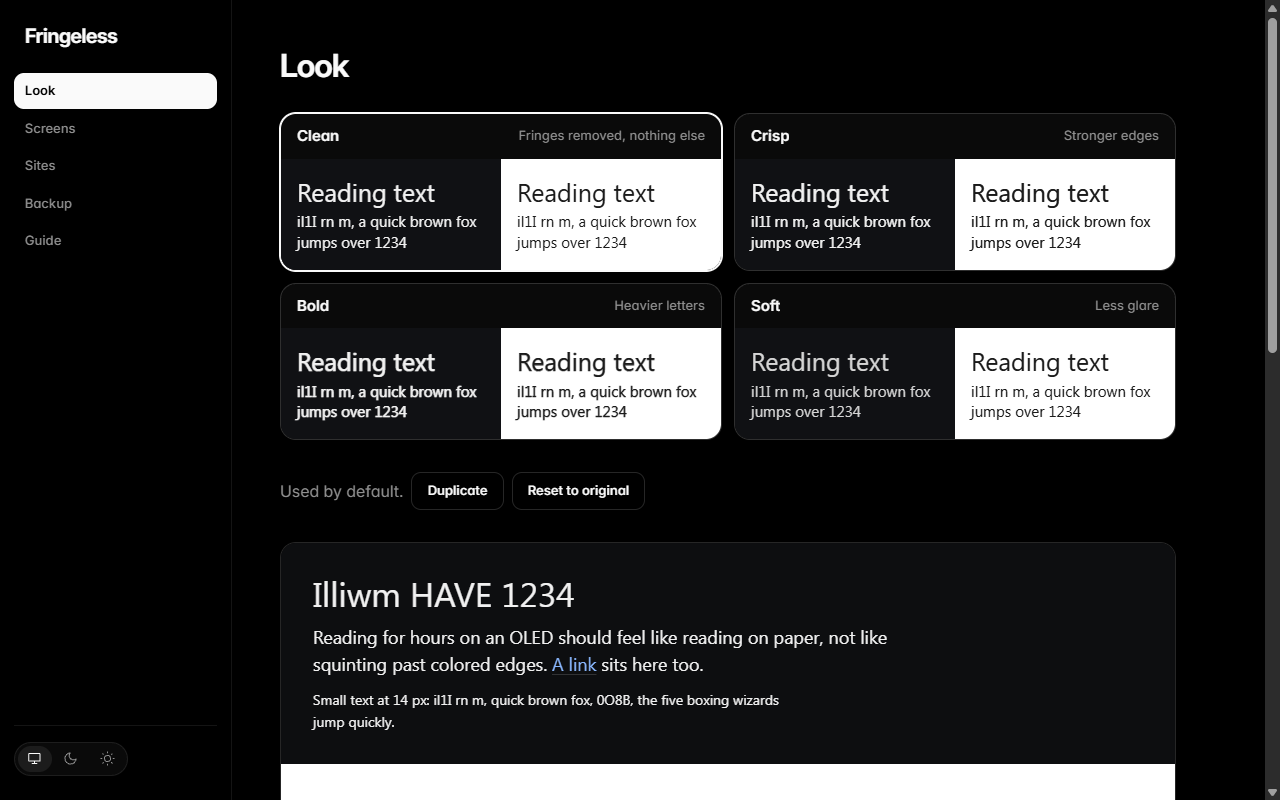
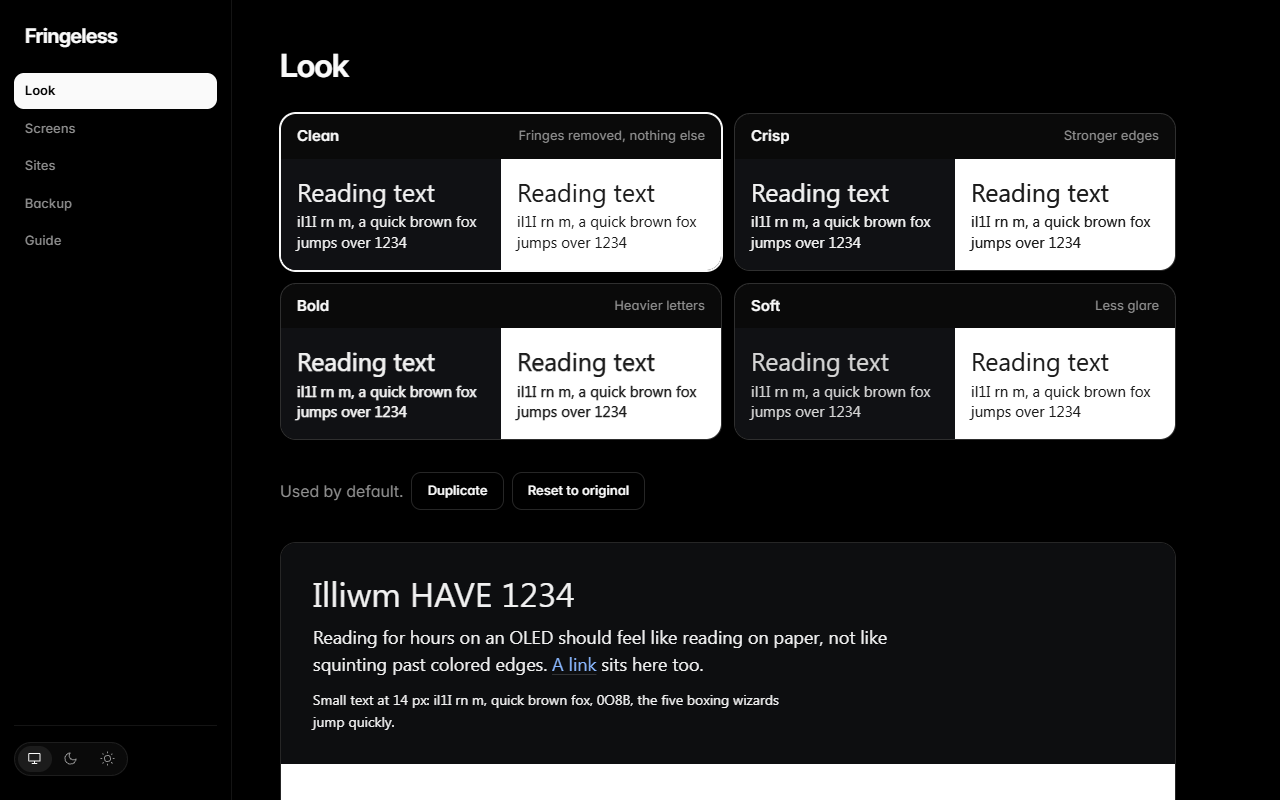
Larger README pictures

Changed region(s): [[0.9688, 0.0, 1.0, 1.0]]

diff --git a/README.md b/README.md
@@ -37,19 +37,18 @@ A setup page opens, helps you find your screen, and asks for permission to chang
 
 ## Features
 
-| | |
-|---|---|
-| <img src="docs/images/popup-dark.png" width="330" alt="The Fringeless popup"> | **Change it where you read.** Turn it on or off for a site, pick a look, and adjust thickness, contrast and softness separately for light and dark text. Hold a button to compare with the original. **Check this page** counts the colored edge pixels before and after (Chromium). |
+<p align="center"><img src="docs/images/popup-dark.png" width="400" alt="The Fringeless popup"></p>
 
+- **In reach:** turn it on or off for a site, pick a look, and adjust thickness, contrast and softness separately for light and dark text. Hold a button to compare with the original. **Check this page** counts colored edge pixels before and after (Chromium).
 - **Looks:** Clean removes the fringes and nothing else. Crisp, Bold and Soft also change the weight or glare. Make your own.
 - **Sites:** run everywhere, everywhere except some sites, or only on sites you choose. Wildcards and regular expressions work.
 - **Screens:** give each screen its own settings, such as on for the monitor and off for the TV.
 - **Detection:** finds your screen's model (Chromium) or lets you search about 400 OLED models. A camera check covers the rest.
 - **The rest:** pause for a tab or an hour, keyboard shortcuts, dark and light themes, sync, and backup to a file.
 
-| Looks | Screens |
-|---|---|
-| ![Four looks to choose from](docs/images/look.png) | ![Detecting the screen model and its subpixel layout](docs/images/screens.png) |
+![Four looks to choose from](docs/images/look.png)
+
+![Detecting the screen model and its subpixel layout](docs/images/screens.png)
 
 ## Which screens benefit
 
